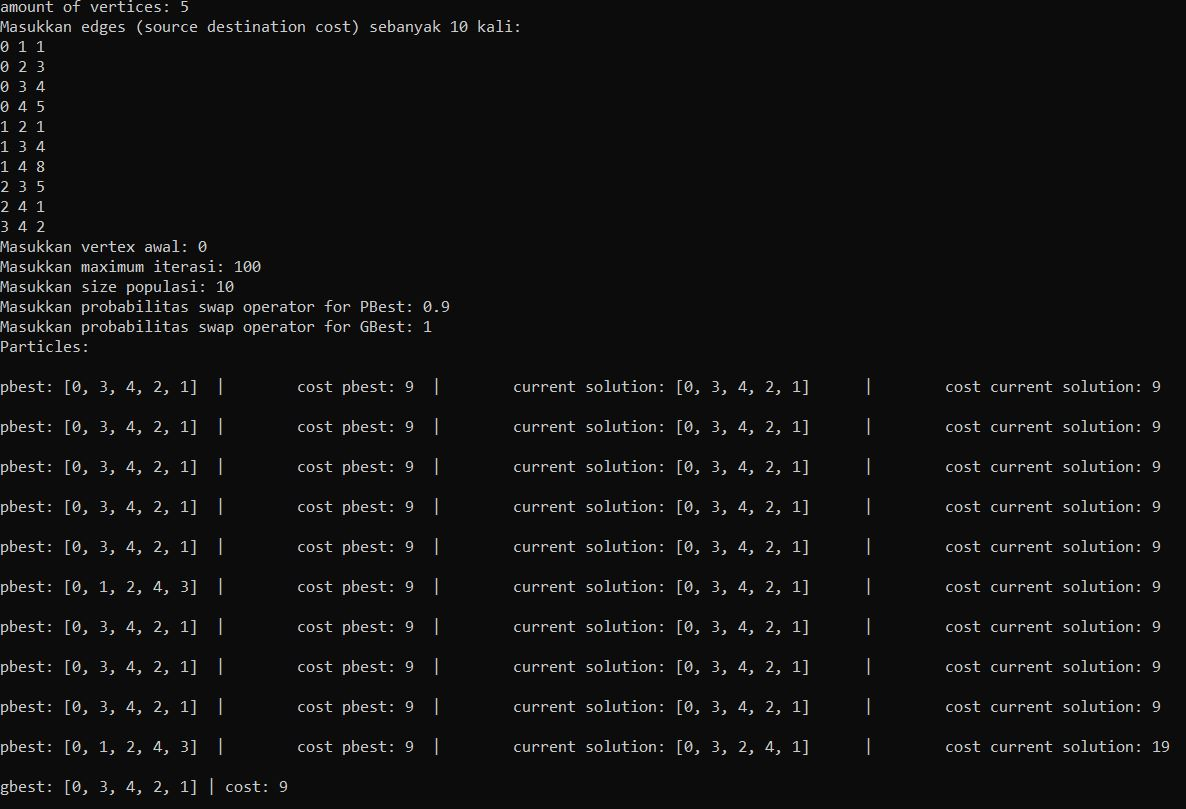
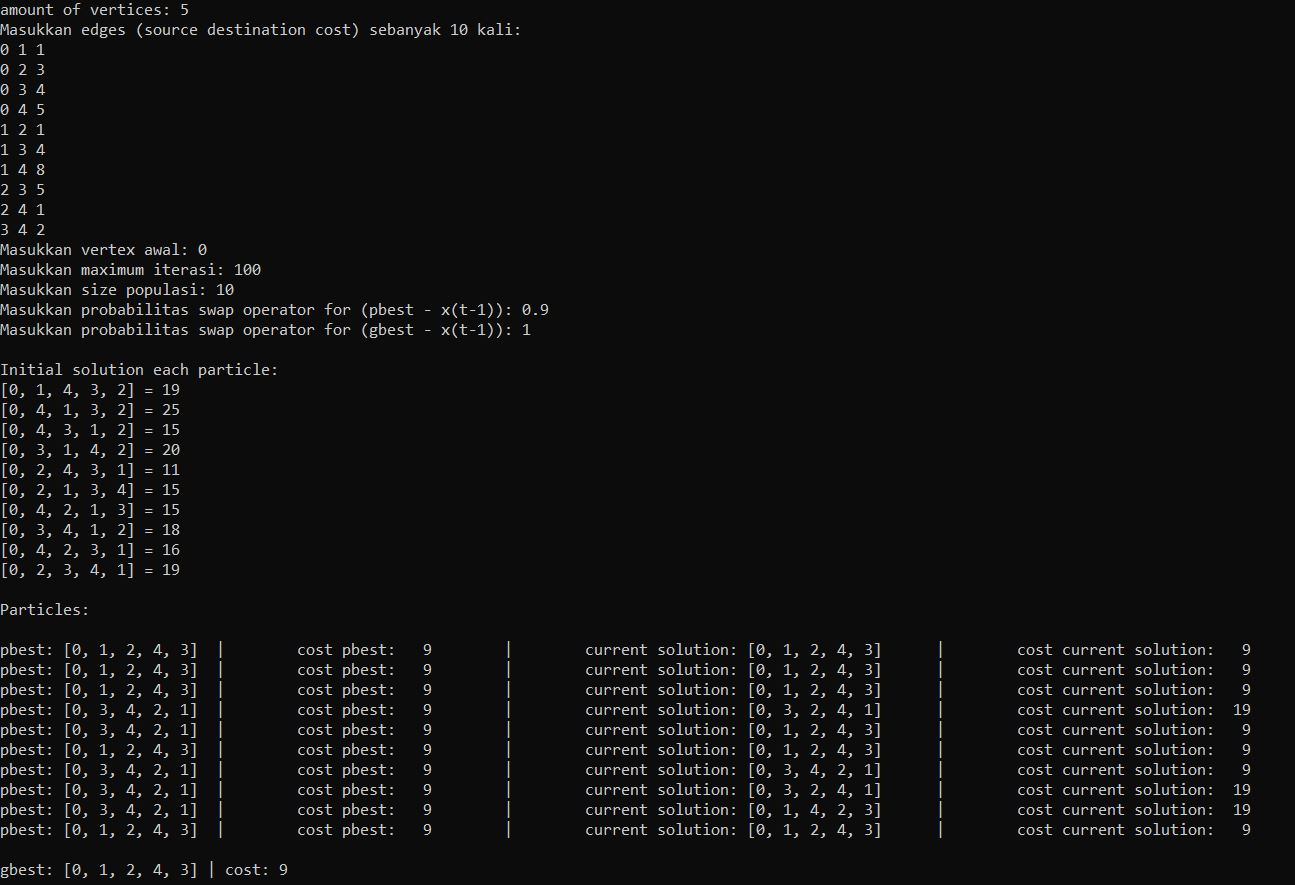
Update files

diff --git a/PSO_TSP.py b/PSO_TSP.py
@@ -117,10 +117,10 @@ class PSO:
         # initialized with a group of random particles (solutions)
         solutions = self.graph.getRandomPaths(self.size_population, initial_vertice)
 
-        # print("Initial solution each particle:")
+        print("\nInitial solution each particle:")
         # creates the particles and initialization of swap sequences in all the particles
         for solution in solutions:
-            # print("{solution} = {cost}".format(solution=solution, cost=graph.getCostPath(solution)))
+            print("{solution} = {cost}".format(solution=solution, cost=graph.getCostPath(solution)))
             # create a new particle
             particle = Particle(solution=solution, cost=graph.getCostPath(solution))
             # add the particle
@@ -134,10 +134,10 @@ class PSO:
 
     # print particles information
     def showParticles(self):
-        print("Particles:\n")
+        print("\nParticles:\n")
         for particle in self.particles:
             print(
-                "pbest: %s \t|\t cost pbest: %3d \t|\t current solution: %s \t|\t cost current solution: %3d \n" \
+                "pbest: %s \t|\t cost pbest: %3d \t|\t current solution: %s \t|\t cost current solution: %3d" \
                 % (str(particle.getPBest()), particle.getCostPBest(), str(particle.getCurrentSolution()), particle.getCostCurrentSolution())
             )
 
@@ -264,4 +264,4 @@ if __name__ == "__main__":
     pso.showParticles()
 
     # shows the global best particle
-    print('gbest: %s | cost: %d\n' % (pso.getGBest().getPBest(), pso.getGBest().getCostPBest()))
+    print('\ngbest: %s | cost: %d\n' % (pso.getGBest().getPBest(), pso.getGBest().getCostPBest()))
